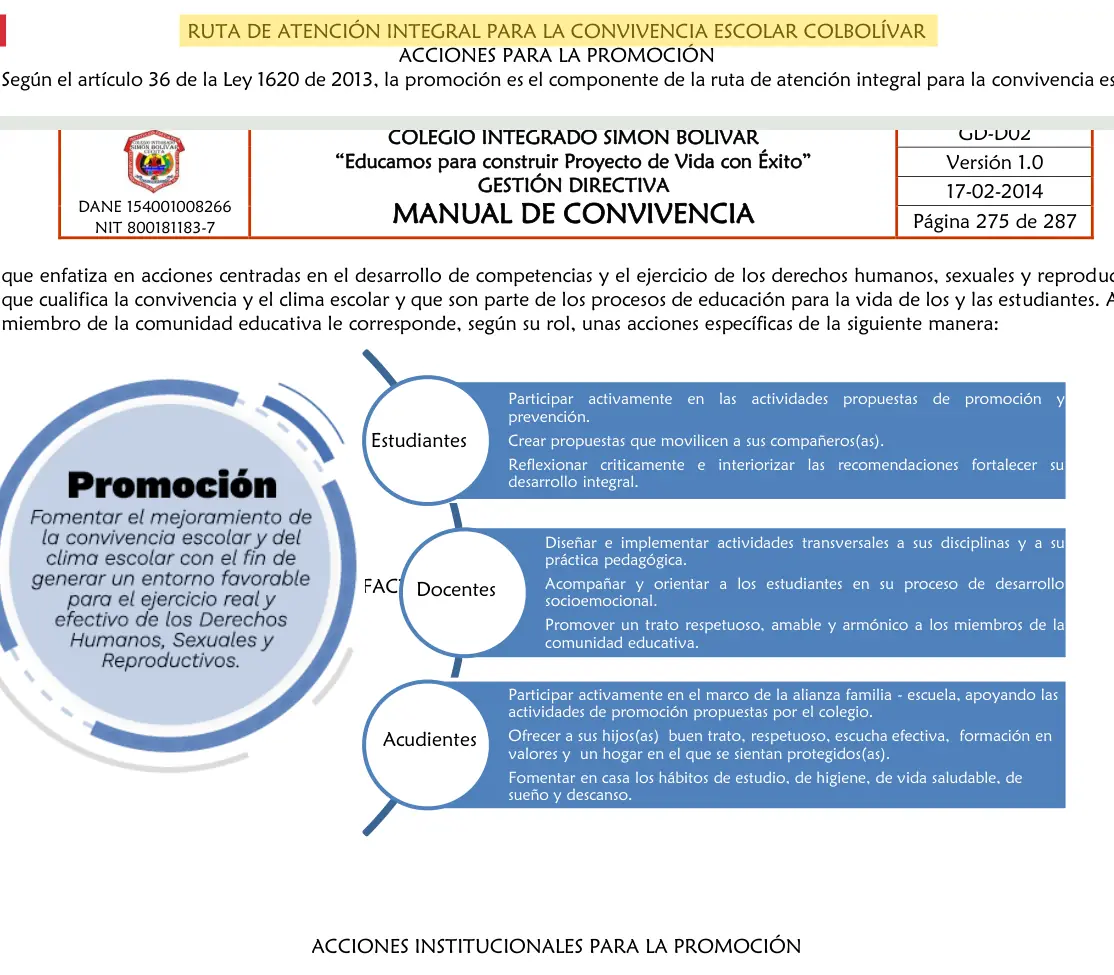
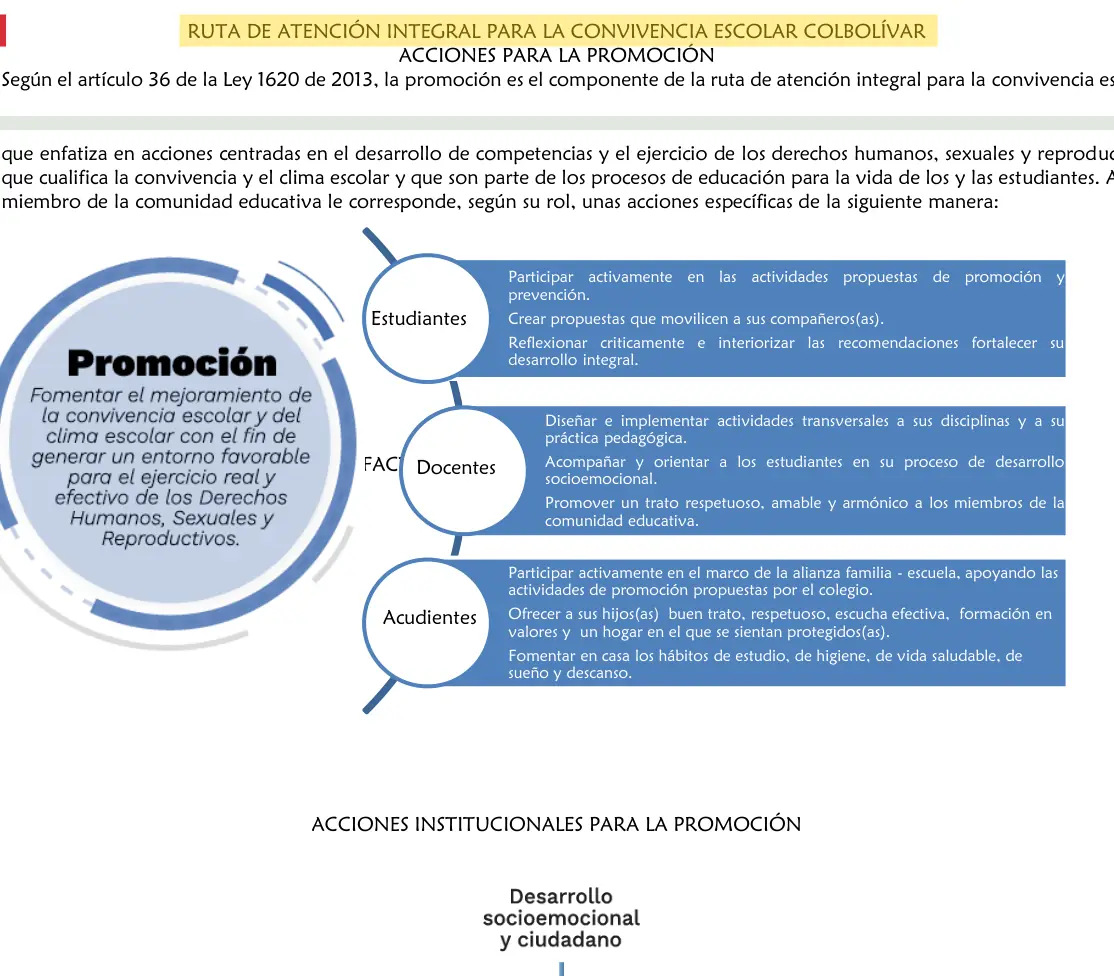
Procesos: ilustraciones definitivas (íconos de gestiones y procesos, emblema, portada, texturas, íconos de interfaz) y empaquetador de sprites; capturas sin encabezado intermedio

diff --git a/PROCESOS.html b/PROCESOS.html
@@ -28,7 +28,7 @@ button{font:inherit;color:inherit;cursor:pointer}
 .hero{position:relative;color:#fff;background:linear-gradient(135deg,#12306e 0%,#1c4f27 70%,#2b7a3a 100%);overflow:hidden;isolation:isolate}
 .hero::before{content:"";position:absolute;inset:0;z-index:-2;background:var(--hero,none) center/cover no-repeat}
 .hero::after{content:"";position:absolute;inset:0;z-index:-1;background:radial-gradient(circle at 12% 18%,#ffffff22 0 2px,transparent 3px) 0 0/34px 34px,radial-gradient(circle at 80% 90%,#ffa63d33,transparent 45%),linear-gradient(180deg,#0b1f4a55,#0b2a1699)}
-.hero.hero-img::after{background:linear-gradient(180deg,#0b1f4a66,#0b2a16cc)}
+.hero.hero-img::after{background:linear-gradient(90deg,#0b1f4af2 0%,#0b2a16c4 42%,#0b2a1626 100%),linear-gradient(180deg,#0b1f4a33 50%,#0b2a1699 100%)}
 .volver{display:inline-flex;align-items:center;gap:.4em;margin:14px 0 0;padding:6px 14px;border-radius:999px;background:#ffffff26;border:1px solid #ffffff55;font-weight:800;font-size:.9rem;color:#fff}
 .volver:hover{background:#ffffff40}
 .hero h1{color:#fff;font-size:clamp(2rem,5.4vw,3.6rem);margin:18px 0 8px;text-shadow:0 3px 14px #0006}
@@ -44,12 +44,12 @@ button{font:inherit;color:inherit;cursor:pointer}
 .mapa h2{text-align:center;font-size:clamp(1.4rem,3.4vw,2rem)}
 .mapa .s{text-align:center;color:var(--mut);margin:6px auto 18px;max-width:640px}
 .flor{position:relative;display:grid;grid-template-columns:1fr 1fr;gap:12px;max-width:760px;margin:0 auto}
-.pet{--c:var(--GD);position:relative;display:flex;flex-direction:column;justify-content:flex-end;gap:2px;min-height:170px;padding:18px 18px 16px;text-align:left;border:3px solid #fff;color:#fff;background:linear-gradient(150deg,color-mix(in srgb,var(--c) 82%,#fff),var(--c));box-shadow:0 10px 22px color-mix(in srgb,var(--c) 40%,transparent);transition:transform .25s cubic-bezier(.3,1.5,.5,1),box-shadow .25s;overflow:hidden}
-.pet::after{content:"";position:absolute;inset:0;background-image:var(--fondo,none);background-size:200% 200%;background-position:var(--fx,0%) var(--fy,0%);opacity:.4;mix-blend-mode:soft-light;pointer-events:none}
+.pet{--c:var(--GD);position:relative;display:flex;flex-direction:column;justify-content:flex-end;gap:2px;min-height:196px;padding:18px 18px 16px;text-align:left;border:3px solid #fff;color:#fff;background:linear-gradient(150deg,color-mix(in srgb,var(--c) 82%,#fff),var(--c));box-shadow:0 10px 22px color-mix(in srgb,var(--c) 40%,transparent);transition:transform .25s cubic-bezier(.3,1.5,.5,1),box-shadow .25s;overflow:hidden}
+.pet::after{content:"";position:absolute;inset:0;background-image:var(--fondo,none);background-size:cover;background-position:center;opacity:var(--fo,.32);mix-blend-mode:soft-light;pointer-events:none}
 .pet:hover{transform:translateY(-4px) scale(1.015)}
 .pet[aria-pressed=true]{outline:4px solid var(--o);outline-offset:2px;transform:translateY(-2px)}
-.pet .ico{--s:62px;position:absolute;top:14px;filter:drop-shadow(0 3px 4px #0004)}
-.pet b{font:800 clamp(1rem,2.6vw,1.3rem)/1.15 Sora,sans-serif;margin-top:70px}
+.pet .ico{--s:92px;position:absolute;top:10px;filter:drop-shadow(0 3px 4px #0004)}
+.pet b{font:800 clamp(1rem,2.6vw,1.3rem)/1.15 Sora,sans-serif;margin-top:100px}
 .pet small{font-size:.82rem;font-weight:700;opacity:.92}
 .pet i.k{position:absolute;top:12px;right:14px;font:800 .8rem/1 Sora,sans-serif;padding:5px 9px;border-radius:999px;background:#ffffff33;font-style:normal}
 .p-GD{--c:var(--GD);border-radius:110px 20px 20px 20px}.p-GD .ico{left:34px}
@@ -59,7 +59,7 @@ button{font:inherit;color:inherit;cursor:pointer}
 .p-GD b,.p-GF b{margin-left:6px}.p-GA b,.p-GC b{margin-right:6px}
 .centro{position:absolute;left:50%;top:50%;z-index:3;width:clamp(96px,23%,150px);aspect-ratio:1;transform:translate(-50%,-50%);display:grid;place-items:center;text-align:center;border-radius:50%;background:#fff;border:5px solid var(--o);box-shadow:0 8px 24px #0b2a1655;padding:8px;pointer-events:none}
 .centro img{width:52%;height:auto;display:block;margin:0 auto 2px}
-.centro.sp img{width:100%;margin:0}
+.centro.sp{padding:0}.centro.sp img{width:92%;margin:0}
 .centro span{font:800 clamp(.52rem,1.5vw,.72rem)/1.12 Sora,sans-serif;color:var(--gd)}
 .centro.sp span{display:none}
 .hint{text-align:center;color:var(--mut);font-size:.92rem;margin-top:14px}
@@ -132,7 +132,8 @@ dialog::backdrop{background:#0b2a16b8;backdrop-filter:blur(3px)}
 .mb:focus{outline:none}
 .mb{overflow:auto;padding:16px 18px 6px;overscroll-behavior:contain}
 .mb .d{color:var(--mut);margin-bottom:12px}
-.aviso{display:flex;gap:10px;align-items:flex-start;padding:10px 14px;border-radius:14px;margin-bottom:12px;font-size:.92rem;font-weight:700}
+.aviso .ico{--s:60px}
+.aviso{display:flex;gap:12px;align-items:center;padding:10px 14px;border-radius:14px;margin-bottom:12px;font-size:.92rem;font-weight:700}
 .aviso.ok{background:#e6f6ea;color:#14692b}.aviso.rel{background:#fdf0dc;color:#7a4500}.aviso.pen{background:#efe9fd;color:#4f2ca3}
 .tabs{display:flex;gap:6px;overflow-x:auto;margin-bottom:10px;padding-bottom:4px}
 .tab{flex:none;max-width:260px;padding:8px 13px;border-radius:12px;border:2px solid var(--line);background:#fff;font-weight:800;font-size:.84rem;text-align:left;color:var(--gd);overflow:hidden;text-overflow:ellipsis;white-space:nowrap}
@@ -160,8 +161,8 @@ dialog::backdrop{background:#0b2a16b8;backdrop-filter:blur(3px)}
 
 @media(max-width:640px){
  body{font-size:16px}
- .pet{min-height:150px;padding:14px 12px 12px}
- .pet .ico{--s:50px}.pet b{margin-top:56px}
+ .pet{min-height:164px;padding:14px 12px 12px}
+ .pet .ico{--s:64px}.pet b{margin-top:70px}.pet i.k{display:none}
  .p-GD .ico,.p-GF .ico{left:20px}.p-GA .ico,.p-GC .ico{right:20px}
  .p-GD,.p-GA,.p-GF,.p-GC{border-radius:20px}.p-GD{border-top-left-radius:70px}.p-GA{border-top-right-radius:70px}.p-GF{border-bottom-left-radius:70px}.p-GC{border-bottom-right-radius:70px}
  .gh{flex-wrap:wrap}.gh .ex{margin-left:0}
@@ -223,7 +224,7 @@ const IMG='assets/img/procesos/';
 const NIVEL={directa:{t:'Evidencia directa',i:'✔',c:'ok'},relacionada:{t:'Evidencia relacionada',i:'≈',c:'rel'},pendiente:{t:'Por documentar',i:'⏳',c:'pen'}};
 const CAP={1:'Capítulo 1 · Componente conceptual y gestión directiva',2:'Capítulo 2 · Componente pedagógico',3:'Capítulo 3 · Componente administrativo',4:'Capítulo 4 · Componente comunitario'};
 // Hojas de sprites que irás entregando: nombre → columnas × filas (cada celda es un icono). Si el archivo no existe se usa el emoji.
-const SPR={gestiones:[4,1],'procesos-gd':[6,1],'procesos-ga':[4,1],'procesos-gf':[5,1],'procesos-gc':[2,1],fondos:[2,2],'ui-iconos':[3,3],sellos:[3,1]};
+const SPR={gestiones:[4,1],'procesos-gd':[6,1],'procesos-ga':[4,1],'procesos-gf':[5,1],'procesos-gc':[2,1],'ui-iconos':[3,3],sellos:[3,1]};
 const GEST_I={GD:0,GA:1,GF:2,GC:3};
 const UI={lupa:[0,'🔎'],clip:[1,'📎'],pdf:[2,'📄'],cita:[3,'❝'],ok:[4,'✔'],enlace:[5,'🔗'],cerrar:[6,'✕'],copiar:[7,'📋'],compartir:[8,'↗']};
 const EMO={GDP1:'🧭',GDP2:'🎯',GDP3:'🏛',GDP4:'💬',GDP5:'🌤',GDP6:'🌐',GAP1:'📐',GAP2:'🧑🏫',GAP3:'🏫',GAP4:'📈',GFP1:'🗂',GFP2:'🔧',GFP3:'🍎',GFP4:'👥',GFP5:'💰',GCP1:'♿',GCP2:'🌍'};
@@ -269,7 +270,7 @@ function pintaFlor(){
    ${ico('gestiones',GEST_I[g.id],g.emoji)}<i class="k">${g.id}</i><b>${esc(g.nombre)}</b><small>${nProc(g)} procesos · ${nSub(g)} subprocesos</small></button>`).join('')+
   `<div class="centro" id="centro" aria-hidden="true"><img src="assets/img/escudo.webp" alt="" width="80" height="80"><span>Proyecto de vida con éxito</span></div>`;
  sprites($('#flor'));
- imagenOpcional('fondos',u=>$$('.pet').forEach((b,i)=>{b.style.setProperty('--fondo',`url(${u})`);b.style.setProperty('--fx',(i%2)*100+'%');b.style.setProperty('--fy',Math.floor(i/2)*100+'%')}));
+ $$('.pet').forEach(b=>imagenOpcional('fondo-'+b.dataset.g.toLowerCase(),u=>b.style.setProperty('--fondo',`url(${u})`)));
 }
 function pintaChips(){
  const c=[['todos','Todos',''],['directa','✔ Directa','ok'],['relacionada','≈ Relacionada','rel'],['pendiente','⏳ Por documentar','pen']];
@@ -333,7 +334,7 @@ function abrir(cod,tab=0,sinHash){
  const d=D.docs[e.doc];
  $('#mb').innerHTML=`
   <p class="d"><b>${esc(g.nombre)}</b> · P${p.n}. ${esc(p.nombre)}<br>${esc(s.desc)}</p>
-  <div class="aviso ${n.c}" role="note"><span aria-hidden="true">${n.i}</span><span><b>${n.t}.</b> ${aviso}</span></div>
+  <div class="aviso ${n.c}" role="note">${ico('sellos',{ok:0,rel:1,pen:2}[n.c],n.i)}<span><b>${n.t}.</b> ${aviso}</span></div>
   ${evs.length>1?`<div class="tabs" role="tablist" aria-label="Evidencias de este subproceso">${evs.map((x,i)=>`<button type="button" role="tab" class="tab" data-t="${i}" aria-selected="${i===tab}" title="${esc(x.titulo)}">${esc(D.docs[x.doc].corto)} · ${pag(x)} · ${esc(x.titulo)}</button>`).join('')}</div>`:''}
   <figure class="vis"><div class="zh">Toca la imagen para ampliarla</div><div class="pan" id="pan" tabindex="0" role="button" aria-label="Ampliar o reducir la captura"><img src="${esc(e.img)}" width="${e.w}" height="${e.h}" alt="Captura del documento ${esc(d.corto)}, ${pag(e)}: ${esc(e.titulo)}"></div>
    <figcaption>📖 <b>${esc(cita(e))}</b></figcaption></figure>

diff --git a/procesos/herramientas/empaquetar_sprites.py b/procesos/herramientas/empaquetar_sprites.py
@@ -1,0 +1,183 @@
+#!/usr/bin/env python3
+"""
+Arma los sprites y recursos visuales de PROCESOS.html a partir de las imágenes fuente
+(procesos/herramientas/fuente/*.webp) y los guarda en assets/img/procesos/.
+
+  gestiones.webp · procesos-gd/ga/gf/gc.webp   → íconos en fila (una celda cuadrada por ícono)
+  ui-iconos.webp (3×3) · sellos.webp (3×1)       → íconos pequeños de la interfaz y sellos de evidencia
+  centro.webp · hero.webp                         → emblema del centro de la flor y portada
+  fondo-gd/ga/gf/gc.webp                          → texturas de los pétalos
+
+Uso (desde la raíz del repo):  python procesos/herramientas/empaquetar_sprites.py
+Requiere: pillow numpy scipy
+"""
+import os
+import numpy as np
+from PIL import Image
+from scipy import ndimage as ndi
+
+RAIZ = os.getcwd()
+FUENTE = os.path.join(RAIZ, 'procesos/herramientas/fuente')
+SALIDA = os.path.join(RAIZ, 'assets/img/procesos')
+os.makedirs(SALIDA, exist_ok=True)
+def abrir(n): return Image.open(os.path.join(FUENTE, n + '.webp')).convert('RGBA')
+def kb(n): return os.path.getsize(os.path.join(SALIDA, n)) // 1024
+
+# ------------------------------------------------------------------ separar íconos de una fila (fondo transparente)
+def separar(img, esperados, cortes=None):
+    """Devuelve los íconos (RGBA recortados) ordenados de izquierda a derecha. Los fragmentos pequeños
+    (rayitas, destellos) se pegan al ícono más cercano."""
+    A = np.array(img); M = A[..., 3] > 20
+    if cortes: return separar_por_valles(A, M, esperados, cortes)
+    lab, k = ndi.label(ndi.binary_dilation(M, np.ones((3, 3)), iterations=2))
+    cajas = ndi.find_objects(lab); area = np.array(ndi.sum(M, lab, range(1, k + 1)))
+    grupos = None
+    for umbral in (0.04, 0.08, 0.15, 0.25, 0.01):
+        grandes = [i for i in range(1, k + 1) if area[i - 1] >= umbral * np.median(area)]
+        grp = {g: {g} for g in grandes}
+        for i in range(1, k + 1):
+            if i in grp: continue
+            yi, xi = cajas[i - 1]
+            def dist(g):
+                yg, xg = cajas[g - 1]
+                dx = max(xg.start - xi.stop, xi.start - xg.stop, 0); dy = max(yg.start - yi.stop, yi.start - yg.stop, 0)
+                return (dx * dx + dy * dy) ** .5
+            grp[min(grandes, key=dist)].add(i)
+        if len(grp) == esperados: grupos = grp; break
+    if grupos is None: return separar_por_valles(A, M, esperados)      # íconos que se tocan: se corta por los valles
+    iconos = []
+    for g, miembros in grupos.items():
+        sel = np.isin(lab, list(miembros)); ys, xs = np.where(sel)
+        y0, y1, x0, x1 = ys.min(), ys.max() + 1, xs.min(), xs.max() + 1
+        out = A[y0:y1, x0:x1].copy(); out[..., 3] = np.where(sel[y0:y1, x0:x1], out[..., 3], 0)
+        iconos.append((x0, Image.fromarray(out)))
+    return [im for _, im in sorted(iconos, key=lambda t: t[0])]
+
+def separar_por_valles(A, M, n, aprox=None):
+    """Para filas de íconos que se tocan. Corta en las columnas con menos píxeles (los valles entre íconos).
+    Si se dan posiciones aproximadas (aprox) cada corte se ajusta a la costura más delgada a ±25 px."""
+    col = ndi.uniform_filter1d(M.sum(axis=0).astype(float), 5)
+    xs = np.where(M.any(axis=0))[0]; ini, fin = xs.min(), xs.max() + 1; cortes = []
+    if aprox:
+        for a in aprox:
+            lo, hi = max(ini + 1, a - 25), min(fin - 1, a + 25); w = col[lo:hi]; idx = np.where(w <= w.min() + 1e-6)[0]
+            cortes.append(lo + int(idx[len(idx) // 2]))
+    else:
+        sep = (fin - ini) / n * 0.55; libre = np.ones(M.shape[1], bool); libre[:ini] = libre[fin:] = False
+        for _ in range(n - 1):
+            v = np.where(libre, col, np.inf); idx = np.where(v <= v.min() + 1e-6)[0]
+            tiras = np.split(idx, np.where(np.diff(idx) > 1)[0] + 1); tira = max(tiras, key=len); c = int(tira[len(tira) // 2])
+            cortes.append(c); libre[max(0, int(c - sep)):int(c + sep)] = False
+    lim = [ini] + sorted(cortes) + [fin]; out = []
+    for x0, x1 in zip(lim[:-1], lim[1:]):
+        sub = M[:, x0:x1].copy()
+        lab, k = ndi.label(ndi.binary_dilation(sub, np.ones((3, 3)), iterations=1)); H_, W_ = sub.shape
+        if k > 1:        # quita los restos del ícono vecino que quedan pegados al borde del corte
+            tam = ndi.sum(sub, lab, range(1, k + 1)); mayor = int(np.argmax(tam)) + 1; keep = np.zeros_like(sub)
+            for q, sl in enumerate(ndi.find_objects(lab), 1):
+                toca = sl[1].start <= 1 or sl[1].stop >= W_ - 1
+                if q == mayor or not toca: keep |= (lab == q) & sub
+            sub = keep
+        ys, xs2 = np.where(sub); y0, y1, xx0, xx1 = ys.min(), ys.max() + 1, xs2.min(), xs2.max() + 1
+        seg = A[y0:y1, x0 + xx0:x0 + xx1].copy(); seg[..., 3] = np.where(sub[y0:y1, xx0:xx1], seg[..., 3], 0)
+        out.append(Image.fromarray(seg))
+    return out
+
+def borrar_color(ic, lado, ancho, h0, h1, smin=0.25):
+    """Borra en el borde (izq/der, 'ancho' px) los píxeles de un tono (h0-h1 en escala 0-255 de PIL): quita restos del ícono vecino."""
+    A = np.array(ic); hsv = np.array(ic.convert('RGB').convert('HSV')).astype(int)
+    zona = np.zeros(A.shape[:2], bool)
+    if lado == 'der': zona[:, -ancho:] = True
+    else: zona[:, :ancho] = True
+    malo = zona & (hsv[..., 0] >= h0) & (hsv[..., 0] <= h1) & (hsv[..., 1] >= smin * 255)
+    malo = ndi.binary_dilation(malo, iterations=2) & zona
+    A[malo, 3] = 0
+    lab, k = ndi.label(A[..., 3] > 20)                  # además, se queda solo con el bloque principal (descarta contornos sueltos)
+    if k > 1:
+        tam = ndi.sum(A[..., 3] > 20, lab, range(1, k + 1)); A[lab != (int(np.argmax(tam)) + 1), 3] = 0
+    ys, xs = np.where(A[..., 3] > 20)
+    return Image.fromarray(A[ys.min():ys.max() + 1, xs.min():xs.max() + 1])
+
+def en_celda(ic, celda, margen=0.06, maxup=1.0):
+    w, h = ic.size; util = celda * (1 - 2 * margen)
+    s = min(util / w, util / h, maxup)
+    ic2 = ic.resize((max(1, round(w * s)), max(1, round(h * s))), Image.LANCZOS)
+    lienzo = Image.new('RGBA', (celda, celda), (0, 0, 0, 0))
+    lienzo.alpha_composite(ic2, ((celda - ic2.width) // 2, (celda - ic2.height) // 2)); return lienzo
+
+def hoja(iconos, celda, cols, archivo, **kw):
+    filas = -(-len(iconos) // cols); H = Image.new('RGBA', (celda * cols, celda * filas), (0, 0, 0, 0))
+    for i, ic in enumerate(iconos): H.alpha_composite(en_celda(ic, celda, **kw), ((i % cols) * celda, (i // cols) * celda))
+    H.save(os.path.join(SALIDA, archivo), 'WEBP', quality=90, alpha_quality=100, method=6, exact=True)
+    print(f'{archivo:20} {H.width}×{H.height}  ({len(iconos)} íconos, celda {celda})  {kb(archivo)} KB')
+
+# ------------------------------------------------------------------ íconos de gestiones y procesos
+hoja(separar(abrir('gestiones'), 4), 256, 4, 'gestiones.webp')
+hoja(separar(abrir('procesos-gd'), 6), 192, 6, 'procesos-gd.webp')
+hoja(separar(abrir('procesos-ga'), 4), 192, 4, 'procesos-ga.webp')
+gf = separar(abrir('procesos-gf'), 5, cortes=[370, 780, 1233, 1645])   # íconos que se tocan: cortes aproximados
+gf[0] = borrar_color(gf[0], 'der', 60, 40, 120)    # hojita verde del edificio vecino pegada a la carpeta
+gf[4] = gf[4].crop((14, 0, gf[4].width, gf[4].height))   # contorno de cabello de la niña pegado a la calculadora (primeras 13 columnas)
+gf[4] = borrar_color(gf[4], 'izq', 30, 5, 30)
+hoja(gf, 192, 5, 'procesos-gf.webp')
+hoja(separar(abrir('procesos-gc'), 2), 192, 2, 'procesos-gc.webp')
+
+# ------------------------------------------------------------------ íconos de interfaz
+# Set nuevo (insignias azules 3D sobre blanco): se quita el fondo y la sombra gris usando la saturación del color.
+def insignias(img_rgba):
+    rgb = np.array(img_rgba.convert('RGB')).astype(float) / 255
+    mx, mn = rgb.max(axis=2), rgb.min(axis=2); sat = np.where(mx > 0, (mx - mn) / np.maximum(mx, 1e-6), 0)
+    mask = ndi.binary_fill_holes(ndi.binary_opening(sat > 0.25, iterations=1))       # insignia + glifo blanco interior
+    lab, k = ndi.label(mask); area = ndi.sum(mask, lab, range(1, k + 1))
+    ids = [i for i in range(1, k + 1) if area[i - 1] > 0.3 * area.max()]
+    alfa = ndi.gaussian_filter(mask.astype(float), 0.9)
+    A = np.dstack([(rgb * 255).astype(np.uint8), (np.clip(alfa, 0, 1) * 255).astype(np.uint8)])
+    out = []
+    for i in ids:
+        sel = ndi.binary_dilation(lab == i, iterations=2); ys, xs = np.where(sel)
+        c = A[ys.min():ys.max() + 1, xs.min():xs.max() + 1].copy()
+        c[..., 3] = np.where(sel[ys.min():ys.max() + 1, xs.min():xs.max() + 1], c[..., 3], 0)
+        out.append((ys.mean(), xs.mean(), Image.fromarray(c)))
+    assert len(out) == 9, f'esperaba 9 insignias y encontré {len(out)}'
+    out.sort(key=lambda t: (round(t[0] / 300), t[1])); return [t[2] for t in out]
+nuevos = insignias(abrir('ui'))   # orden: objetivo, escudo, lupa / herramientas, libreta, nodos / clip, carpeta, enlace
+
+# Íconos que el set nuevo no trae (comillas, cerrar, copiar) y los sellos: se toman de la hoja anterior (menor resolución).
+VIEJA = Image.open(os.path.join(FUENTE, 'hoja-original.webp')).convert('RGBA'); AV = np.array(VIEJA); MV = AV[..., 3] > 20
+def vieja(box):
+    x0, y0, x1, y1 = box; sub = MV[y0:y1, x0:x1].copy()
+    lab, n = ndi.label(ndi.binary_dilation(sub, np.ones((3, 3)), iterations=1)); H_, W_ = sub.shape
+    if n > 1:
+        tam = ndi.sum(sub, lab, range(1, n + 1)); mayor = int(np.argmax(tam)) + 1; keep = np.zeros_like(sub)
+        for i, sl in enumerate(ndi.find_objects(lab), 1):
+            toca = sl[0].start <= 1 or sl[1].start <= 1 or sl[0].stop >= H_ - 1 or sl[1].stop >= W_ - 1
+            if i == mayor or not toca: keep |= (lab == i) & sub
+        sub = keep
+    ys, xs = np.where(sub); by0, by1, bx0, bx1 = y0 + ys.min(), y0 + ys.max() + 1, x0 + xs.min(), x0 + xs.max() + 1
+    out = AV[by0:by1, bx0:bx1].copy(); out[..., 3] = np.where(sub[by0 - y0:by1 - y0, bx0 - x0:bx1 - x0], out[..., 3], 0)
+    return Image.fromarray(out)
+cita = vieja((335, 684, 411, 765)); cerrar = vieja((140, 768, 235, 858)); copiar = vieja((238, 769, 332, 858))
+objetivo, escudo, lupa, herram, libreta, nodos, clip, carpeta, enlace = nuevos
+# orden del sprite 3×3: lupa, clip, documento(pdf), cita, verificado, enlace, cerrar, copiar, compartir
+hoja([lupa, clip, carpeta, cita, escudo, enlace, cerrar, copiar, nodos], 112, 3, 'ui-iconos.webp', margen=0.03, maxup=1.5)
+
+# sellos de nivel de evidencia (de la hoja anterior; se corta por el valle entre sellos contiguos)
+def valle(x0, x1, y0=690, y1=860): return x0 + int(np.argmin(MV[y0:y1, x0:x1].sum(axis=0)))
+c1, c2 = valle(680, 712), valle(830, 860)
+hoja([vieja((530, 688, c1 + 1, 862)), vieja((c1 + 1, 688, c2 + 1, 862)), vieja((c2 + 1, 688, 1010, 862))], 192, 3, 'sellos.webp', margen=0.03, maxup=1.3)
+
+# ------------------------------------------------------------------ emblema del centro y portada
+c = abrir('centro'); c = c.crop(c.getbbox())
+en_celda(c, 384, margen=0.02).save(os.path.join(SALIDA, 'centro.webp'), 'WEBP', quality=90, alpha_quality=100, method=6, exact=True)
+print(f'centro.webp          384×384  {kb("centro.webp")} KB')
+h = abrir('hero').convert('RGB'); h = h.resize((1800, round(h.height * 1800 / h.width)), Image.LANCZOS)
+h.save(os.path.join(SALIDA, 'hero.webp'), 'WEBP', quality=80, method=6); print(f'hero.webp            {h.width}×{h.height}  {kb("hero.webp")} KB')
+
+# ------------------------------------------------------------------ texturas de pétalos
+# 4 paneles (izq→der: turquesa, celeste, amarillo, rosa). Los paneles 2-4 traen una sombra a la izquierda: se recorta la parte limpia.
+f = abrir('fondos').convert('RGB'); W, Hh = f.size; ancho = W // 4
+orden = {'gd': 0, 'gf': 1, 'ga': 2, 'gc': 3}     # verde→turquesa · azul marino→celeste · naranja→amarillo · rojo→rosa
+for nombre, p in orden.items():
+    x0 = p * ancho + (0 if p == 0 else 66); x1 = (p + 1) * ancho
+    f.crop((x0, 24, x1, 24 + (x1 - x0))).resize((384, 384), Image.LANCZOS).save(os.path.join(SALIDA, f'fondo-{nombre}.webp'), 'WEBP', quality=84, method=6)
+print('fondo-gd/ga/gf/gc.webp  384×384')

diff --git a/procesos/herramientas/generar_evidencias.py b/procesos/herramientas/generar_evidencias.py
@@ -196,8 +196,11 @@ def render(key, ev):
         if not corta_por_titulo and (y1-y0) < ev['H']*0.8 and ev['p'] < doc.page_count:
             p2 = doc[ev['p']]; resto = ev['H'] - (y1-y0)
             lim = [q.y0 for k2, e2 in EV.items() if e2['doc']==ev['doc'] and e2['p']==ev['p']+1 for q in p2.search_for(e2['h']) if q.y0 > top_min]
-            ye = min(top_min+resto, (min(lim)-6) if lim else tope, tope)
-            if ye-top_min > 40: cont = pymupdf.Rect(x0, top_min, x1, ye)
+            # la página siguiente empieza con el encabezado institucional: se salta para que no aparezca a mitad de la captura
+            enc = [q.y1 for txt in ('NIT 800181183', 'Página') for q in p2.search_for(txt) if q.y1 < 200]
+            ys0 = max(top_min, max(enc) + 8) if enc else top_min
+            ye = min(ys0+resto, (min(lim)-6) if lim else tope, tope)
+            if ye-ys0 > 40: cont = pymupdf.Rect(x0, ys0, x1, ye)
         marca = pymupdf.Rect(max(lr.x0-4,x0), lr.y0-2, min(lr.x1+6,x1), lr.y1+2)
         page.draw_rect(marca, color=None, fill=(1,0.85,0.1), fill_opacity=0.45, overlay=True)
         page.draw_rect(pymupdf.Rect(x0-2, lr.y0-2, x0+3, lr.y1+2), color=None, fill=(0.85,0.18,0.23), overlay=True)

diff --git a/assets/img/procesos/PEDIDO-DE-IMAGENES.md b/assets/img/procesos/PEDIDO-DE-IMAGENES.md
@@ -1,4 +1,22 @@
-# Imágenes para la sección PROCESOS (10 archivos)
+# Imágenes de la sección PROCESOS — ESTADO
+
+**Ya integradas** (generadas con `procesos/herramientas/empaquetar_sprites.py` a partir de las imágenes de `procesos/herramientas/fuente/`):
+
+| Archivo | Contenido | Estado |
+|---------|-----------|--------|
+| `gestiones.webp` | 4 íconos de las gestiones | ✔ definitivo |
+| `procesos-gd/ga/gf/gc.webp` | 6 + 4 + 5 + 2 íconos de procesos | ✔ definitivo |
+| `centro.webp` · `hero.webp` | emblema del centro y portada | ✔ definitivo |
+| `fondo-gd/ga/gf/gc.webp` | texturas de los pétalos | ✔ definitivo |
+| `ui-iconos.webp` | 9 íconos de interfaz | ◐ lupa, clip, carpeta (documento), escudo (verificado), enlace y compartir son del set nuevo; **comillas, cerrar y copiar** vienen de la primera hoja (menor resolución y otro estilo) |
+| `sellos.webp` | 3 sellos de nivel de evidencia | ◐ de la primera hoja (menor resolución) |
+
+**Pendiente (opcional):** rehacer en alta resolución y en el mismo estilo de insignia azul 3D: comillas de cita, X de cerrar, dos hojas de copiar, y los 3 sellos (evidencia directa / relacionada / por documentar).
+Para volver a generar los sprites: copia las imágenes nuevas a `procesos/herramientas/fuente/` y ejecuta el empaquetador.
+
+---
+# Pedido original de imágenes (referencia de estilo y prompts)
+
 
 La página `PROCESOS.html` ya funciona con emojis de respaldo. Cada archivo que se coloque en esta carpeta
 con el nombre exacto de abajo **reemplaza solo** al emoji correspondiente, sin tocar código.

diff --git a/procesos/LEEME.md b/procesos/LEEME.md
@@ -4,7 +4,8 @@
 - `procesos/procesos.json` — datos: 4 gestiones › procesos › subprocesos, cada uno con su evidencia (documento, página, cita, captura y fragmento).
 - `assets/img/procesos/evidencias/` — capturas recortadas del PDF, con el título de la sección resaltado.
 - `assets/img/procesos/` — sprites e imágenes de la sección (ver `PEDIDO-DE-IMAGENES.md`).
-- `procesos/herramientas/generar_evidencias.py` — regenera todo lo anterior (y las entradas de ARIA) desde el Excel y los PDF.
+- `procesos/herramientas/generar_evidencias.py` — regenera las capturas, los datos y las entradas de ARIA desde el Excel y los PDF.
+- `procesos/herramientas/empaquetar_sprites.py` — recorta y arma los sprites (íconos, sellos, texturas, portada) desde `procesos/herramientas/fuente/`.
 
 ## Cuando cambie el PEI (o cualquier documento)
 ```
@@ -16,3 +17,6 @@ Si una sección cambió de página, se corrige en la tabla `EV` del script (núm
 ## Niveles de evidencia
 `directa` (sección propia) · `relacionada` (el tema aparece dentro de otra sección) · `pendiente` (aún no hay apartado específico).
 Se cambian en la tabla `MAPA` del script.
+
+## Cuando cambien las ilustraciones
+Pon las imágenes nuevas en `procesos/herramientas/fuente/` (mismos nombres) y ejecuta `python procesos/herramientas/empaquetar_sprites.py` (requiere `pillow numpy scipy`).
